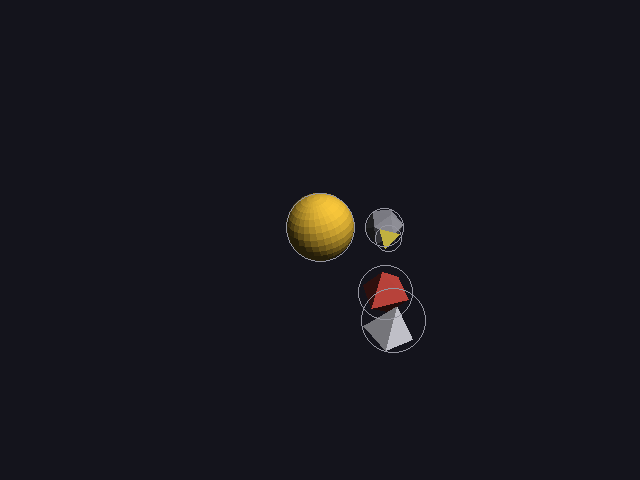
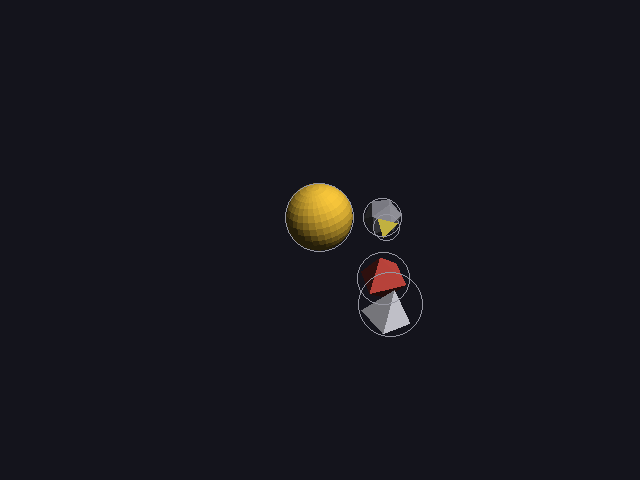
Frame moving things where they really are

Changed region(s): [[0.4375, 0.375, 0.6562, 0.75]]

diff --git a/motion.cpp b/motion.cpp
@@ -528,33 +528,25 @@ void motion_plan::plan_flights(){
 	}
 }
 
+// Spheres the camera has to fit so every moving object stays in the picture
+// for the whole video (docs/16, docs/33). Instead of holding every place a
+// thing COULD be (a fat ring round a whole orbit), follow where it really
+// is: a sphere at its position every dt seconds. Between two samples it
+// moves at most speed·dt, so at any moment it's within speed·dt/2 of the
+// nearest sample. Growing each sphere by that covers every moment.
 std::vector<obstacle> motion_plan::bounds()const{
 	std::vector<obstacle> spheres;
+	if(moving.empty()) return spheres;
+	float last = duration();
+	// the collision checks' step (gap/(4·fastest), so the padding is at most
+	// gap/8), but no more than 2000 samples per object
+	float dt = std::max(sample_step(), last / 2000.0f);
 	for(size_t k = 0;k<moving.size();k++){
-		const path& p = moving[k];
-		if(p.kind == motion_kind::orbits){
-			// a moon's circle travels with its planet, and the planet's
-			// spheres already include the moon's reach
-			if(p.around_path >= 0) continue;
-			// 32 spheres around the circle. A point of the circle is never
-			// more than half a step's chord, 2·R·sin(π/64), from the nearest
-			// one, so growing each by that covers the whole ring. One big
-			// sphere would also work, but it's as tall as it is wide, and an
-			// orbit is flat (docs/16).
-			const int n = 32;
-			float cover = reach(k) + 2.0f * p.orbit_radius * std::sin(3.14159265f / (2.0f * n));
-			for(int k = 0;k<n;k++){
-				float angle = two_pi * float(k) / float(n);
-				vec3 point = p.center + vec3(p.orbit_radius * std::cos(angle), 0.0f, -p.orbit_radius * std::sin(angle));
-				spheres.push_back({p.name, point, cover});
-			}
-		}else if(p.kind == motion_kind::flies_past && p.around_path >= 0){
-			continue;   // measured from a mover: inside that mover's reach (docs/32)
-		}else{
-			// fly-by, or the approach of a hit (once stuck, it rides along
-			// inside its target's reach)
-			spheres.push_back({p.name, p.from, p.radius});
-			spheres.push_back({p.name, p.to, p.radius});
+		float pad = 0.5f * speed_of(k) * dt;
+		for(int step = 0;;step++){
+			float t = std::min(step * dt, last);
+			spheres.push_back({moving[k].name, position(k, t), moving[k].radius + pad});
+			if(t >= last) break;
 		}
 	}
 	return spheres;

diff --git a/docs/33-framing-by-sampling.md b/docs/33-framing-by-sampling.md
@@ -1,0 +1,125 @@
+# 33 · Framing where things are, not where they could be
+
+The camera has to keep every moving thing in the picture for the whole
+video (16, section 8). The first way to make sure of that was to fit the
+camera around every place a thing **could** be: an orbit became a ring of
+32 spheres, each as big as the planet's whole **reach** (17). That's safe,
+but loose. In `scenes/showcase.dan` the probe flying past the planet gives
+the planet a reach of 7.53, so every one of the 32 spheres round its orbit
+was 8.8 units across, nearly all of it empty at any moment. The camera
+backed off to make room for that, and everything looked small.
+
+Now the camera fits where each thing **actually is**, over time.
+
+| before: fits a fat ring | after: fits the real positions |
+|---|---|
+| ![](images/showcase-before.png) | ![](images/showcase-after.png) |
+
+`scenes/showcase.dan` at 17 s. Camera distance **59.7 → 42.0**.
+
+Code: `motion.cpp` (`bounds`).
+
+---
+
+## 1. The idea
+
+Every moving object's position is known for every moment in advance
+(`position(k, t)`). So: put a sphere at its position every dt seconds, and
+let the camera's tight framing (14) fit all of those spheres.
+
+The catch is the moments **between** samples. A sample at 4.00 s and one at
+4.02 s say nothing directly about 4.01 s.
+
+## 2. Why the gaps can't be missed
+
+It's the same argument as the collision checks (16, section 4):
+
+```
+between two samples dt apart, a thing moves at most  v · dt          (v = its fastest speed)
+any moment is at most dt/2 from the nearest sample
+so there it's at most  v · dt/2  from that sample's position
+```
+
+So each sphere is made bigger by that much:
+
+```
+sphere radius = r + v · dt / 2
+```
+
+and then whatever fits the samples fits **every** moment. v includes the
+steepest part of the easing curve (23), and for a moon its planet's speed
+too (`speed_of`), so the bound holds for eased and nested motion.
+
+**Which dt?** The collision checks already use dt = gap / (4 · fastest)
+(16), which makes the padding at most
+
+```
+v · dt / 2  ≤  fastest · gap / (4 · fastest) / 2  =  gap / 8  =  0.05
+```
+
+With no more than 2000 samples per object, so a very fast object can't make
+the framing slow.
+
+## 3. Worked example: scene 4
+
+From [scene4-framed.txt](images/scene4-framed.txt):
+
+```
+checked every 0.0184 s (fastest moves 5.4464 per second)
+```
+
+planet2 is the fastest: 2 turns of a circle of radius 8.67 in 20 s.
+
+```
+v       = 2 · 2π · 8.67 / 20 = 5.447 per second
+dt      = 0.4 / (4 · 5.447) = 0.0184 s
+pad     = 5.447 · 0.0184 / 2 = 0.050                 (= gap / 8, as promised)
+samples = 20 / 0.0184 = 1089.3, so 1091 per object (from 0 s, every 0.0184 s, and 20 s itself)
+```
+
+planet2 (r = 0.87) becomes 1091 spheres of radius 0.92 along its circle,
+one every 0.0184 s. Before, it was 32 spheres of radius 1.72.
+
+The moon is slower on its own (1.41 per second), but it rides on planet1
+(1.76 per second), so v = 1.41 + 1.76 = 3.17 and its pad is
+3.17 · 0.0184 / 2 = 0.029.
+
+| | 32 spheres per orbit (16) | sampled (here) |
+|---|---|---|
+| scene 4 | 19.90 | **18.95** |
+| scene 5 | 19.71 | **18.76** |
+| flyby_mover (32) | 39.14 | **29.42** |
+| showcase | 59.66 | **41.96** |
+
+(camera distances; smaller is closer.) Scene 4 barely changes: its rings
+were already thin. The scenes with a fly-by past a mover change the most,
+because that's where the reach was much bigger than the thing itself.
+
+## 4. Why this is still safe
+
+Nothing about the guarantee changed, only how tight it is. The stress tests'
+hard check **moving objects stay in the picture** (15) walks every path with
+its own sampling and counts objects that leave the picture at any moment.
+It's 0 for every scene.
+
+**What it costs.** About 1100 spheres per moving object instead of 32, and
+the binary search (14) tests all of them each round. That's a few hundred
+thousand projections, a few milliseconds, once when the scene is built. The
+whole stress suite still runs in about a second.
+
+## 5. Why not this from the start?
+
+Orbits came first (16), and a ring of spheres was the natural shape for a
+circle. What changed is that paths got more varied (moons, hits that stick,
+fly-bys past movers, easing): each new kind needed its own sphere rule.
+Sampling needs none. Anything with a `position(k, t)` and a top speed can
+be framed, including motions that don't exist yet.
+
+---
+
+## Try it on paper
+
+A comet flies 15 units in 6 s at a steady speed, and the samples are
+0.02 s apart. How much bigger is each of its spheres?
+
+Answer: v = 15 / 6 = 2.5 per second; pad = 2.5 · 0.02 / 2 = 0.025.

diff --git a/README.md b/README.md
@@ -100,7 +100,9 @@ The circles are each object's bounding sphere: red = overlapping something.
   point-to-circle distances (moons included, through a planet's "reach"),
   fly-by lines checked with point-to-segment distances, and time sampling
   that provably can't miss a collision ([docs/16](docs/16-motion-placement.md));
-  fly-bys past things that are themselves moving ([docs/32](docs/32-flyby-movers.md))
+  fly-bys past things that are themselves moving ([docs/32](docs/32-flyby-movers.md));
+  the camera frames where moving things really are over time, with the same
+  can't-miss bound ([docs/33](docs/33-framing-by-sampling.md))
 - **intended collisions** (`hits ... at 12s`): intercepts a moving target
   exactly on time, only that pair may touch, then it sticks
   ([docs/18](docs/18-intended-collisions.md))
@@ -150,6 +152,7 @@ make run SCENE=2      scene 2: a small solar system, 20 s
 ./main scenes/broken.dan    ... or one full of mistakes, to see the error messages
 ./main scenes/labels.dan --aa                 labels, titles, a moon and a comet, with smooth edges
 ./main scenes/math.dan --aa                   formulas, and formulas as labels
+./main scenes/showcase.dan --aa               everything at once
 ./main stress flyby_mover                     a probe flying past a planet that is itself orbiting
 ./main scenes/labels.dan --aa --video out.mp4 the same, as an mp4 (needs ffmpeg)
 ./main clip on|off    standing inside a scene, with or without near-plane clipping

diff --git a/docs/32-flyby-movers.md b/docs/32-flyby-movers.md
@@ -147,10 +147,11 @@ the next one tried; if none were clear, the report would say so.
 ## 5. Framing: two passes
 
 The camera has to see everything that moves (16, section 8). Each moving
-thing becomes a few spheres for the framing (`bounds()`): an orbit is 32
-spheres round its circle, a fly-by is its two ends. A fly-by measured from a
-mover adds nothing: it's inside the planet's reach, which the orbit's
-spheres already include.
+thing becomes spheres for the framing (`bounds()`). At first, an orbit was
+32 spheres round its circle, each as big as the planet's whole reach, and a
+fly-by measured from a mover added nothing, being inside that reach. Since
+33 the camera follows where each thing really is over time instead, which
+frames this scene from 29.4 instead of 39.1.
 
 Planning paths needs the still objects' places, and placing the still
 objects needs room for the paths. So when there are paths, the solver

diff --git a/docs/README.md b/docs/README.md
@@ -63,6 +63,7 @@ All the math is built on **vectors and matrices** (01).
 | 30 | [Math](30-math.md) | How does our small TeX lay out a formula? | `math_layout.cpp` |
 | 31 | [Room for words](31-room-for-words.md) | How does the solver leave room for titles and labels? | `layout.cpp`, `solver.cpp` |
 | 32 | [Flying past movers](32-flyby-movers.md) | How does something fly past a thing that is itself moving? | `motion.cpp`, `solver.cpp` |
+| 33 | [Framing by sampling](33-framing-by-sampling.md) | How does the camera fit where moving things really are? | `motion.cpp` |
 | | [Ranges and settings](ranges.md) | What values make sense? | `camera.h`, `object.h` |
 | | [C++ notes](cpp-notes.md) | What does this syntax mean? | everywhere |
 | | [Design](design.md) | Why is the code split up like this? | everywhere |

diff --git a/docs/16-motion-placement.md b/docs/16-motion-placement.md
@@ -398,6 +398,11 @@ objects.
 
 ## 8. Step E4: framing the paths
 
+> **Since 33** the camera fits where each moving thing actually **is**,
+> sampled over time, instead of the spheres below. This section is the
+> first version, kept because the reasoning still holds; its numbers are
+> from that version (scene 4 is now framed at 18.95 instead of 19.90).
+
 Step D (14) fits the camera around every **still** object. Now it also has
 to fit every **path**:
 
